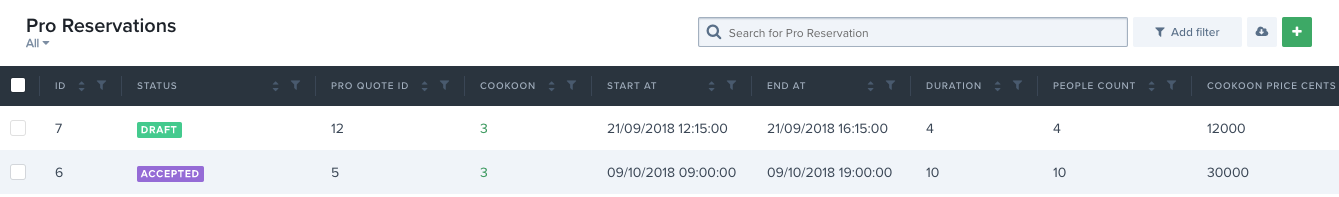
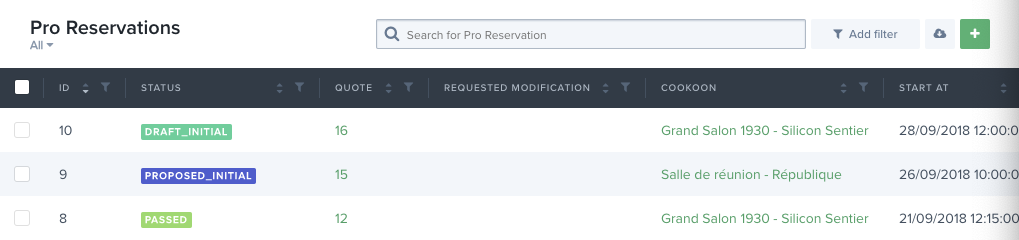
update documentation with new statuses and 'Add service from specification' action

diff --git a/pro_quotation_process.md b/pro_quotation_process.md
@@ -3,58 +3,67 @@
 ![new request](images/pro_quote/new_request.png)
 
 ### Actions
-  1. Se connecter à Forest Admin
-  - Se rendre sur la page de la demande
 
-    `Data(1) > Pro Quotes(2)`
+1. Se connecter à Forest Admin
 
-    ![quote index](images/pro_quote/quote_index.png)
+- Se rendre sur la page de la demande
 
-  - cliquer sur une demande de devis (Pro Quote)
+  `Data(1) > Pro Quotes(2)`
 
-  - s'assurer d'être sur l'onglet 'détails'
+  ![quote index](images/pro_quote/quote_index.png)
 
-  - cliquer sur 'Actions' > 'Create Draft Reservation'
+- cliquer sur une demande de devis (Pro Quote)
 
-  ![quote show](images/pro_quote/quote_show.png)
+- s'assurer d'être sur l'onglet 'détails'
 
-  - Se rendre sur 'Pro Reservations', le devis créé devrait se trouver en haut de la liste avec le status 'Draft'
+- cliquer sur 'Actions' > 'Create Draft Reservation'
 
-  ![reservations index](images/pro_quote/reservations_index.png)
+![quote show](images/pro_quote/quote_show.png)
 
-  - éditer la proposition et/ou ajouter des services
+- Se rendre sur 'Pro Reservations', le devis créé devrait se trouver en haut de la liste avec le status 'Draft Initial'
 
-  - Une fois la proposition construite, cliquer sur 'Actions' > 'Propose Réservation'
+![reservations index](images/pro_quote/reservations_index.png)
 
-  _Cela a pour effet de passer la proposition en status 'proposed' + d'envoyer un mail au client._
+- éditer la proposition et/ou ajouter des services
 
-  __Attention : Ne pas éditer le status de la réservation, car le mail de notification ne partirais pas.__
+- pour ajouter des services "standards", définis dans "Pro Service Specification", utiliser l'action "Add service from specification"
 
-  ![propose reservation](images/pro_quote/propose_reservation.png)
+![add services from specification action](images/pro_quote/add_service_from_specification_action.png)
+![add services from specification](images/pro_quote/add_service_from_specification.png)
+
+- Une fois la proposition construite, cliquer sur 'Actions' > 'Propose Réservation'
+
+_Cela a pour effet de passer la proposition en status 'proposed initial' + d'envoyer un mail au client._
+
+**Attention : Ne pas éditer le status de la réservation, car le mail de notification ne partirais pas.**
+
+![propose reservation](images/pro_quote/propose_reservation.png)
 
 ### Fin du premier cycle
-Le client a reçu un mail avec sa proposition
 
+Le client a reçu un mail avec sa proposition
 
 # Réception d'une demande de modification
 
- ![modification request](images/pro_quote/modification_request.png)
+![modification request](images/pro_quote/modification_request.png)
 
 ### Actions
 
- 1. Se rendre à nouveau dans l'espace Admin sur 'Pro Reservations'
-La réservation a maintenant le status `modification_requested`
+1.  Se rendre à nouveau dans l'espace Admin sur 'Pro Reservations'
+    La réservation a maintenant le status `modification_requested`
 
-  ![modification requested](images/pro_quote/modification_requested.png)       
+![modification requested](images/pro_quote/modification_requested.png)
 
-  __Attention il ne faut pas éditer cette reservation mais en créer une autre avec l'action 'Duplicate Reservation as Draft'__
+**Attention il ne faut pas éditer cette reservation mais en créer une autre avec l'action 'Duplicate Reservation as Draft'**
 
-  ![duplicate as draft](images/pro_quote/duplicate_as_draft.png)
+![duplicate as draft](images/pro_quote/duplicate_as_draft.png)
 
- - Retourner sur l'index des propositions ('Pro Reservations')
+La proposition initiale va passer au statut 'modification_processed'.
 
-  la nouvelle proposition apparait alors au dessus avec à nouveau le status 'Draft'
+- Retourner sur l'index des propositions ('Pro Reservations')
 
-  ![new draft](images/pro_quote/new_draft.png)
+la nouvelle proposition apparait alors au dessus avec à nouveau le status 'Draft'
 
-Le process reprend alors à l'etape 2?, éditer la proposition jusqu'à satisfaction ensuite cliquer sur 'Actions' > 'Propose Réservation'
+![new draft](images/pro_quote/new_draft.png)
+
+Le process reprend alors à l'etape 2, éditer la proposition jusqu'à satisfaction ensuite cliquer sur 'Actions' > 'Propose Réservation'
